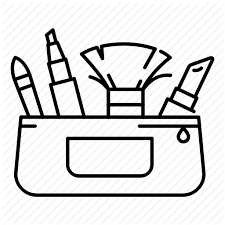
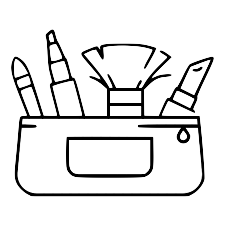
update

diff --git a/index.html b/index.html
@@ -19,15 +19,15 @@
                 <h1 id="t1">Profil</h1>
                 <div id="presentation">
                     <h2>À propos de moi</h2>
-                    <p>
-                        Phrase intro perso
-                    </p>
-                    <p>
-                        Qualités
-                    </p>
-                    <p>
-                        Défauts
-                    </p>
+                    <div class="media">
+                        <img src="images/photo-profil.png" class="align-self-center mr-3 rounded-circle" id="photo-profil">
+                        <div class="media-body">
+                            <h5 class="mt-0">Je me présente : Michelle Sue !</h5>
+                            <p>Courte présentation</p>
+                            <p>Qualités</p>
+                            <p>Défauts</p>
+                        </div>
+                      </div>
                 </div>
 
                 <br>
@@ -271,7 +271,7 @@
 
                             <div class="media mt-3">
                                 <a class="mr-3" href="#">
-                                    <img id="maquillage" src="images/maquillage.jpg" class="mr-3 rounded-circle pictos">
+                                    <img id="maquillage" src="images/maquillage.png" class="mr-3 rounded-circle pictos">
                                 </a>
                                 <div class="media-body">
                                     <h5 class="mt-0">Maquillage</h5>
@@ -307,7 +307,7 @@
                       
                             <div class="media mt-3">
                                 <a class="mr-3" href="#">
-                                <img src="images/paysages.jpg" class="mr-3 rounded-circle pictos">
+                                <img src="images/paysages.png" class="mr-3 rounded-circle pictos">
                                 </a>
                                 <div class="media-body">
                                     <h5 class="mt-0">Paysages</h5>
@@ -320,7 +320,7 @@
 
                             <div class="media mt-3">
                                 <a class="mr-3" href="#">
-                                    <img src="images/nourriture.jpg" class="mr-3 rounded-circle pictos">
+                                    <img src="images/nourriture.png" class="mr-3 rounded-circle pictos">
                                 </a>
                                 <div class="media-body">
                                     <h5 class="mt-0">Nourriture</h5>
@@ -371,7 +371,7 @@
 
                             <div class="media mt-3">
                                 <a class="mr-3" href="#">
-                                    <img src="images/piano.jpg" class="mr-3 rounded-circle pictos">
+                                    <img src="images/piano.png" class="mr-3 rounded-circle pictos">
                                 </a>
                                 <div class="media-body">
                                     <h5 class="mt-0">Piano</h5>
@@ -427,7 +427,7 @@
                     <br>
 
                     <div id="litterature" class="media">
-                        <img src="images/litterature.jpg" class="mr-3 rounded-circle pictos">
+                        <img src="images/litterature.png" class="mr-3 rounded-circle pictos">
                         <div class="media-body">
                           <h4 class="mt-0">Littérature</h4>
 
@@ -435,7 +435,7 @@
                       
                             <div class="media mt-3">
                                 <a class="mr-3" href="#">
-                                <img src="images/lecture.jpg" class="mr-3 rounded-circle pictos">
+                                <img src="images/lecture.png" class="mr-3 rounded-circle pictos">
                                 </a>
                                 <div class="media-body">
                                     <h5 class="mt-0">Lecture</h5>
@@ -449,7 +449,7 @@
 
                             <div class="media mt-3">
                                 <a class="mr-3" href="#">
-                                    <img src="images/ecriture.jpg" class="mr-3 rounded-circle pictos">
+                                    <img src="images/ecriture.png" class="mr-3 rounded-circle pictos">
                                 </a>
                                 <div class="media-body">
                                     <h5 class="mt-0">Écriture</h5>
@@ -473,7 +473,7 @@
                       
                             <div class="media mt-3">
                                 <a class="mr-3" href="#">
-                                <img src="images/dessins.jpg" class="mr-3 rounded-circle pictos">
+                                <img src="images/dessins.png" class="mr-3 rounded-circle pictos">
                                 </a>
                                 <div class="media-body">
                                     <h5 class="mt-0">Dessins</h5>
@@ -483,7 +483,7 @@
 
                             <div class="media mt-3">
                                 <a class="mr-3" href="#">
-                                    <img src="images/peinture.jpg" class="mr-3 rounded-circle pictos">
+                                    <img src="images/peinture.png" class="mr-3 rounded-circle pictos">
                                 </a>
                                 <div class="media-body">
                                     <h5 class="mt-0">Peintures</h5>
@@ -513,7 +513,7 @@
                 <div id="sports">
                     <h2>Activités sportives</h2>
                     <div id="sports-individuels" class="media">
-                        <img src="images/seule.jpg" class="mr-3 rounded-circle pictos">
+                        <img src="images/seule.png" class="mr-3 rounded-circle pictos">
                         <div class="media-body">
                           <h4 class="mt-0">Sports individuels</h4>
 
@@ -521,7 +521,7 @@
                       
                             <div class="media mt-3">
                                 <a class="mr-3" href="#">
-                                <img src="images/natation.jpg" class="mr-3 rounded-circle pictos">
+                                <img src="images/natation.png" class="mr-3 rounded-circle pictos">
                                 </a>
                                 <div class="media-body">
                                     <h5 class="mt-0">Natation</h5>
@@ -544,7 +544,7 @@
                     <br>
 
                     <div id="sports-collectifs" class="media">
-                        <img src="images/groupe.jpg" class="mr-3 rounded-circle pictos">
+                        <img src="images/groupe.png" class="mr-3 rounded-circle pictos">
                         <div class="media-body">
                           <h4 class="mt-0">Sports collectifs</h4>
 
@@ -552,7 +552,7 @@
                       
                             <div class="media mt-3">
                                 <a class="mr-3" href="#">
-                                <img src="images/randonnee.jpg" class="mr-3 rounded-circle pictos">
+                                <img src="images/randonnee.png" class="mr-3 rounded-circle pictos">
                                 </a>
                                 <div class="media-body">
                                     <h5 class="mt-0">Randonnée</h5>
@@ -562,7 +562,7 @@
 
                             <div class="media mt-3">
                                 <a class="mr-3" href="#">
-                                    <img src="images/vaa.jpg" class="mr-3 rounded-circle pictos">
+                                    <img src="images/vaa.png" class="mr-3 rounded-circle pictos">
                                 </a>
                                 <div class="media-body">
                                     <h5 class="mt-0">Va'a</h5>

diff --git a/animations.css b/animations.css
@@ -1,0 +1,86 @@
+#t1:hover , #t2:hover , #t3:hover , #t4:hover {
+	-webkit-animation: heartbeat 1.5s ease-in-out infinite both;
+	        animation: heartbeat 1.5s ease-in-out infinite both;
+}
+
+/* ----------------------------------------------
+ * Generated by Animista on 2020-9-17 11:13:50
+ * Licensed under FreeBSD License.
+ * See http://animista.net/license for more info. 
+ * w: http://animista.net, t: @cssanimista
+ * ---------------------------------------------- */
+
+/**
+ * ----------------------------------------
+ * animation heartbeat
+ * ----------------------------------------
+ */
+ @-webkit-keyframes heartbeat {
+    from {
+      -webkit-transform: scale(1);
+              transform: scale(1);
+      -webkit-transform-origin: center center;
+              transform-origin: center center;
+      -webkit-animation-timing-function: ease-out;
+              animation-timing-function: ease-out;
+    }
+    10% {
+      -webkit-transform: scale(0.91);
+              transform: scale(0.91);
+      -webkit-animation-timing-function: ease-in;
+              animation-timing-function: ease-in;
+    }
+    17% {
+      -webkit-transform: scale(0.98);
+              transform: scale(0.98);
+      -webkit-animation-timing-function: ease-out;
+              animation-timing-function: ease-out;
+    }
+    33% {
+      -webkit-transform: scale(0.87);
+              transform: scale(0.87);
+      -webkit-animation-timing-function: ease-in;
+              animation-timing-function: ease-in;
+    }
+    45% {
+      -webkit-transform: scale(1);
+              transform: scale(1);
+      -webkit-animation-timing-function: ease-out;
+              animation-timing-function: ease-out;
+    }
+  }
+  @keyframes heartbeat {
+    from {
+      -webkit-transform: scale(1);
+              transform: scale(1);
+      -webkit-transform-origin: center center;
+              transform-origin: center center;
+      -webkit-animation-timing-function: ease-out;
+              animation-timing-function: ease-out;
+    }
+    10% {
+      -webkit-transform: scale(0.91);
+              transform: scale(0.91);
+      -webkit-animation-timing-function: ease-in;
+              animation-timing-function: ease-in;
+    }
+    17% {
+      -webkit-transform: scale(0.98);
+              transform: scale(0.98);
+      -webkit-animation-timing-function: ease-out;
+              animation-timing-function: ease-out;
+    }
+    33% {
+      -webkit-transform: scale(0.87);
+              transform: scale(0.87);
+      -webkit-animation-timing-function: ease-in;
+              animation-timing-function: ease-in;
+    }
+    45% {
+      -webkit-transform: scale(1);
+              transform: scale(1);
+      -webkit-animation-timing-function: ease-out;
+              animation-timing-function: ease-out;
+    }
+  }
+  

diff --git a/portfolio.js b/portfolio.js
@@ -4,19 +4,34 @@ $('#t1').click(function(){
     $('#langues').toggle();
     $('#informatiques').toggle();
 
+    $('#box2').toggle();
+    $('#box3').toggle();
+    $('#box4').toggle();
 });
 
 $('#t2').click(function(){
     $('#etudes').toggle();
     $('#experiences').toggle();
+
+    $('#box1').toggle();
+    $('#box3').toggle();
+    $('#box4').toggle();
 });
 
 $('#t3').click(function(){
     $('#arts').toggle();
     $('#sports').toggle();
+
+    $('#box1').toggle();
+    $('#box2').toggle();
+    $('#box4').toggle();
 });
 
 $('#t4').click(function(){
     $('#contacts').toggle();
+
+    $('#box1').toggle();
+    $('#box2').toggle();
+    $('#box3').toggle();
 });
 

diff --git a/portfolio.css b/portfolio.css
@@ -24,27 +24,42 @@
     border: 1px solid black;
 }
 
+#photo-profil {
+    width: 155px;
+    height: 155px;
+    border: 3px solid black;
+}
 
-/* Règle les couleurs des boîtes */
+
+/* Règlages des boîtes */
 #box1 {
     background-color: #F7AEF8;
+
+    /*height: 406px;*/
 }
 
 #box2 {
     background-color: #B388EB;
+
+    /*height: 406px;*/
 }
 
 #box3 {
     background-color: #8093F1;
+
+    /*height: 406px;*/
 }
 
 #box4 {
     background-color: #72DDF7;
+
+    /*height: 406px;*/
 }
 
 /* Centre les "titres" */
 #t1 , #t2 , #t3 , #t4 {
     text-align: center;
+    justify-items: center;
 }
 
 /* */
